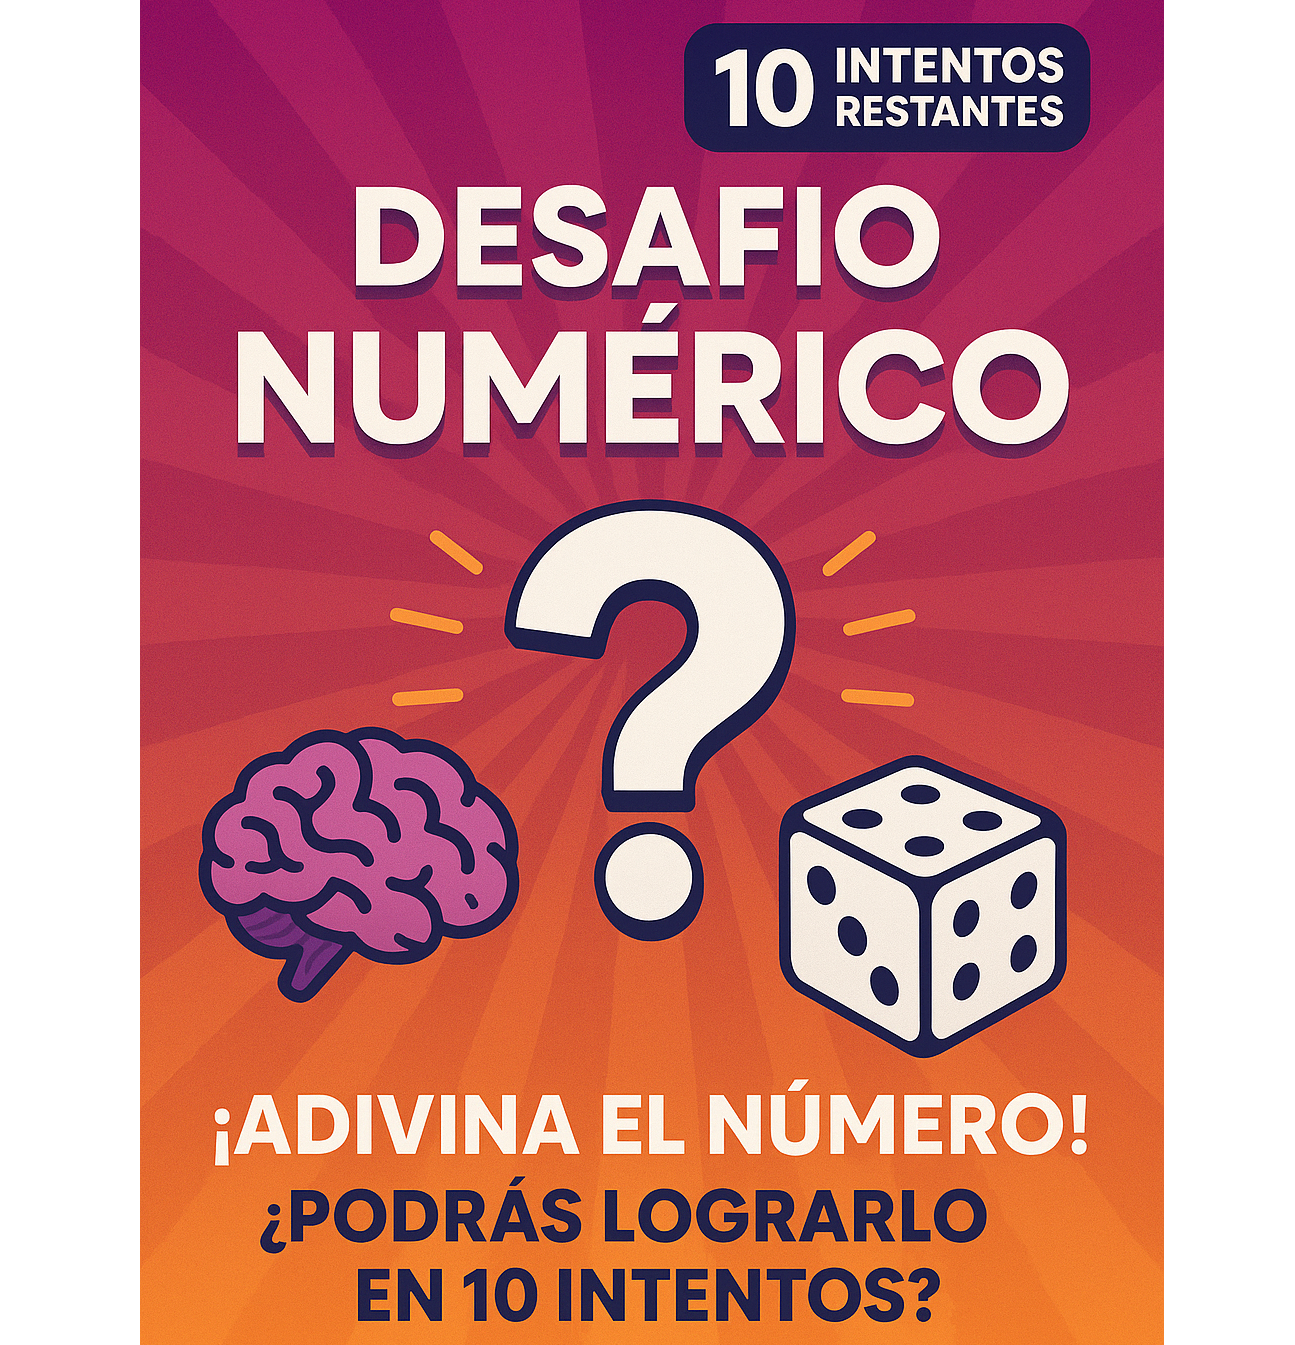
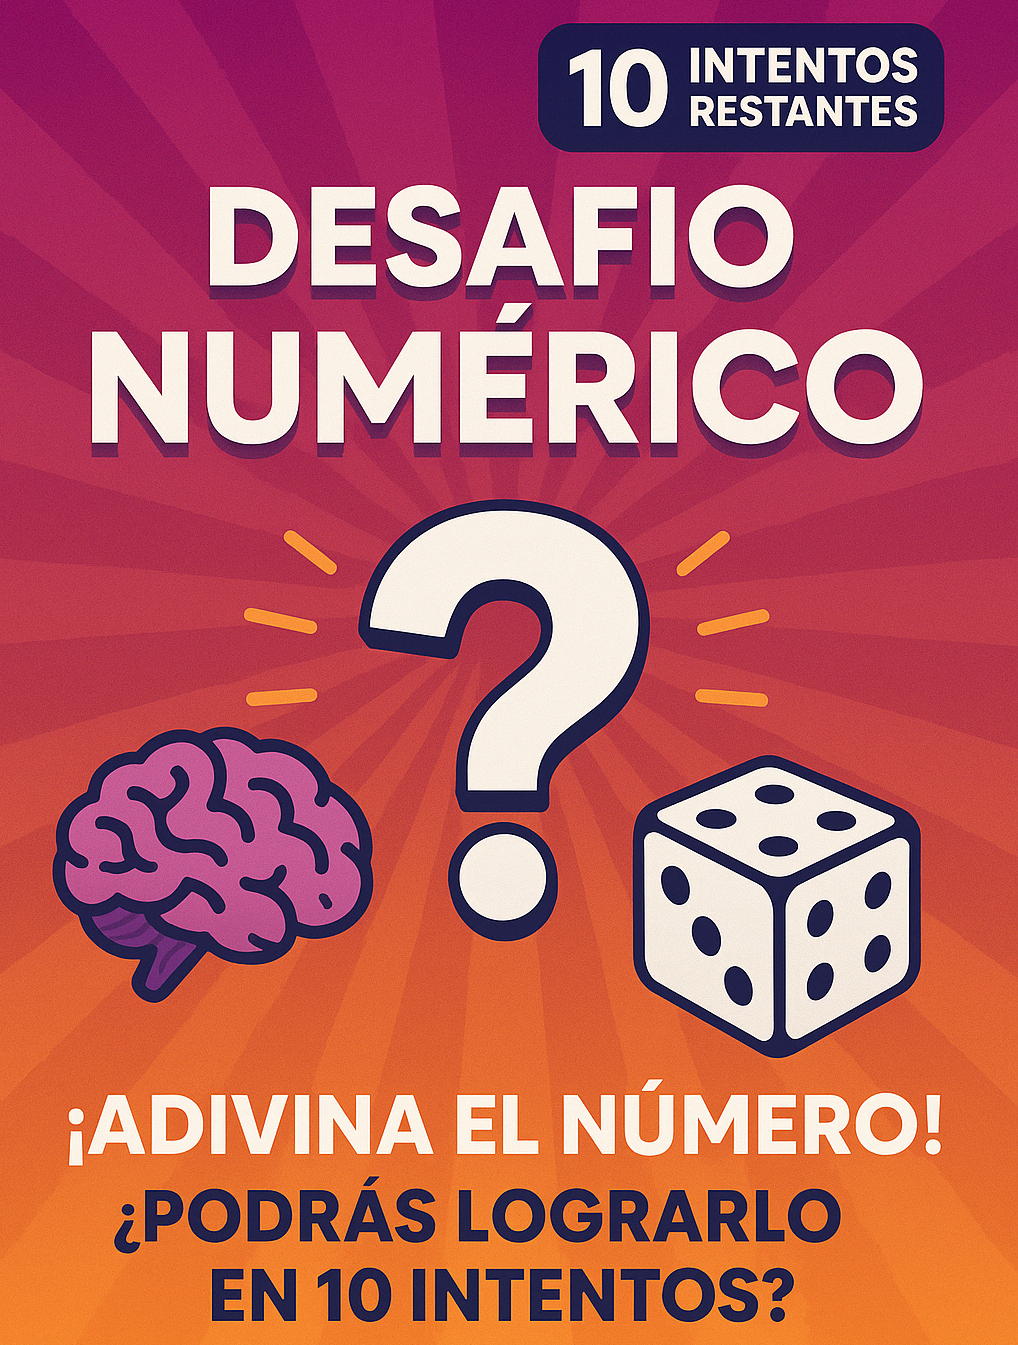
se deja casi lista la portada

diff --git a/js/js.js b/js/js.js
@@ -2,13 +2,21 @@
 
 let buttonConfirmar = document.getElementById("btnConfirmar")
 let buttonReiniciar = document.getElementById("btnReiniciar")
+let buttonJugar = document.getElementById("btnJugar")
 let mensaje = document.getElementById("mensaje")
 let resultado = document.getElementById("resultado")
 let intentos = document.getElementById("intentos")
+let seccionJuego = document.getElementById("juego")
+let seccionPortada = document.getElementById("portada")
 let numeroAleatorio = aleatorio(0, 100)
 let contador = 10
 
 //Funciones
+function jugar(){
+    seccionJuego.style.display ="block"
+    seccionPortada.style.display ="none"
+}
+
 function aleatorio(min, max) {
     return Math.floor(Math.random() * (max - min + 1)) + min;
 }
@@ -60,7 +68,7 @@ function reiniciarJuego(){
 }
 
 //No mostrar la seccion "Juego"
-let seccionJuego = document.getElementById("juego")
+
 seccionJuego.style.display ="none"
 
 //No mostrar el boton reiniciar
@@ -69,6 +77,7 @@ buttonReiniciar.style.display ="none"
 //Invocar funciones
 buttonConfirmar.addEventListener("click", confirmarAccion)
 buttonReiniciar.addEventListener("click", reiniciarJuego)
+buttonJugar.addEventListener("click", jugar)
 
 
 

diff --git a/index.html b/index.html
@@ -16,16 +16,18 @@
     <main>
 
         <section id="portada">
-            <figure class="text-center centrado">
-                <div class="m-auto">
-                    <button class="btn btn-warning text-white fs-1">Jugar</button>
+            <figure class="text-center centrado d-flex flex-column">
+                <img src="./img/Portada.png" class="mx-auto d-block w-100" alt="imagen portada">
+
+                <button class="btn btn-warning fs-1 text-white posicion" id="btnJugar">Jugar</button>
+                <div class="container bg-warning text-white py-3">
+                    Creado por: Javier Castillo
                 </div>
-                
             </figure>
             
         </section>
 
-        
+
         <section id="juego">
             <div class="container">
                 <div class="row">
@@ -52,7 +54,7 @@
     </main>
 
     <footer>
-
+        
     </footer>
 
     <script src="https://cdn.jsdelivr.net/npm/bootstrap@5.3.5/dist/js/bootstrap.bundle.min.js" integrity="sha384-k6d4wzSIapyDyv1kpU366/PK5hCdSbCRGRCMv+eplOQJWyd1fbcAu9OCUj5zNLiq" crossorigin="anonymous"></script>

diff --git a/css/style.css b/css/style.css
@@ -2,11 +2,10 @@
     height: 100vh;
     display: flex;
     align-items: center;
+    justify-content: center;
 }
 
-
-figure{
-    background-image: url(../img/Portada.png);
-    background-position: center;
-    background-size: cover;
+.posicion{
+    position: relative;
+    bottom: 18%;
 }
